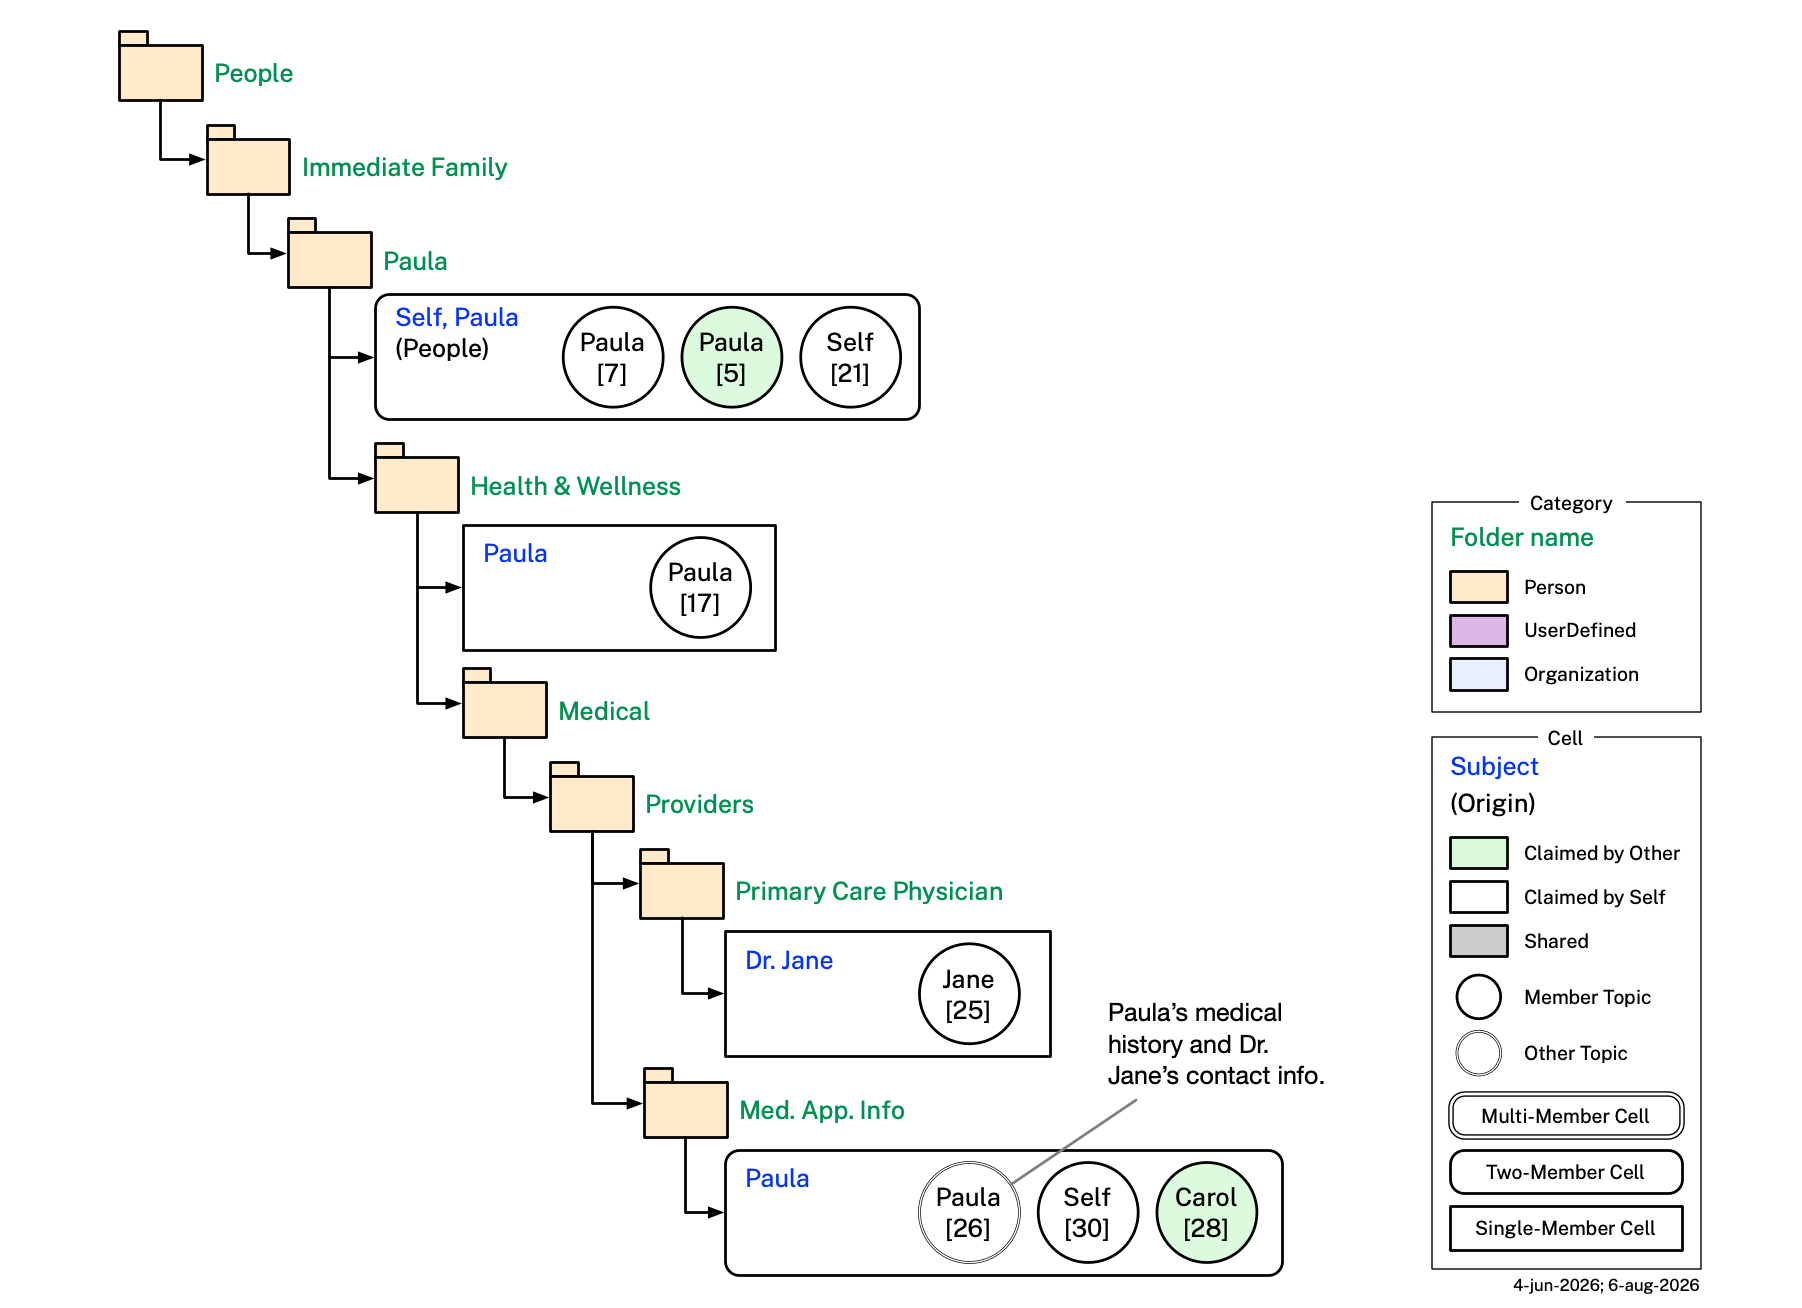
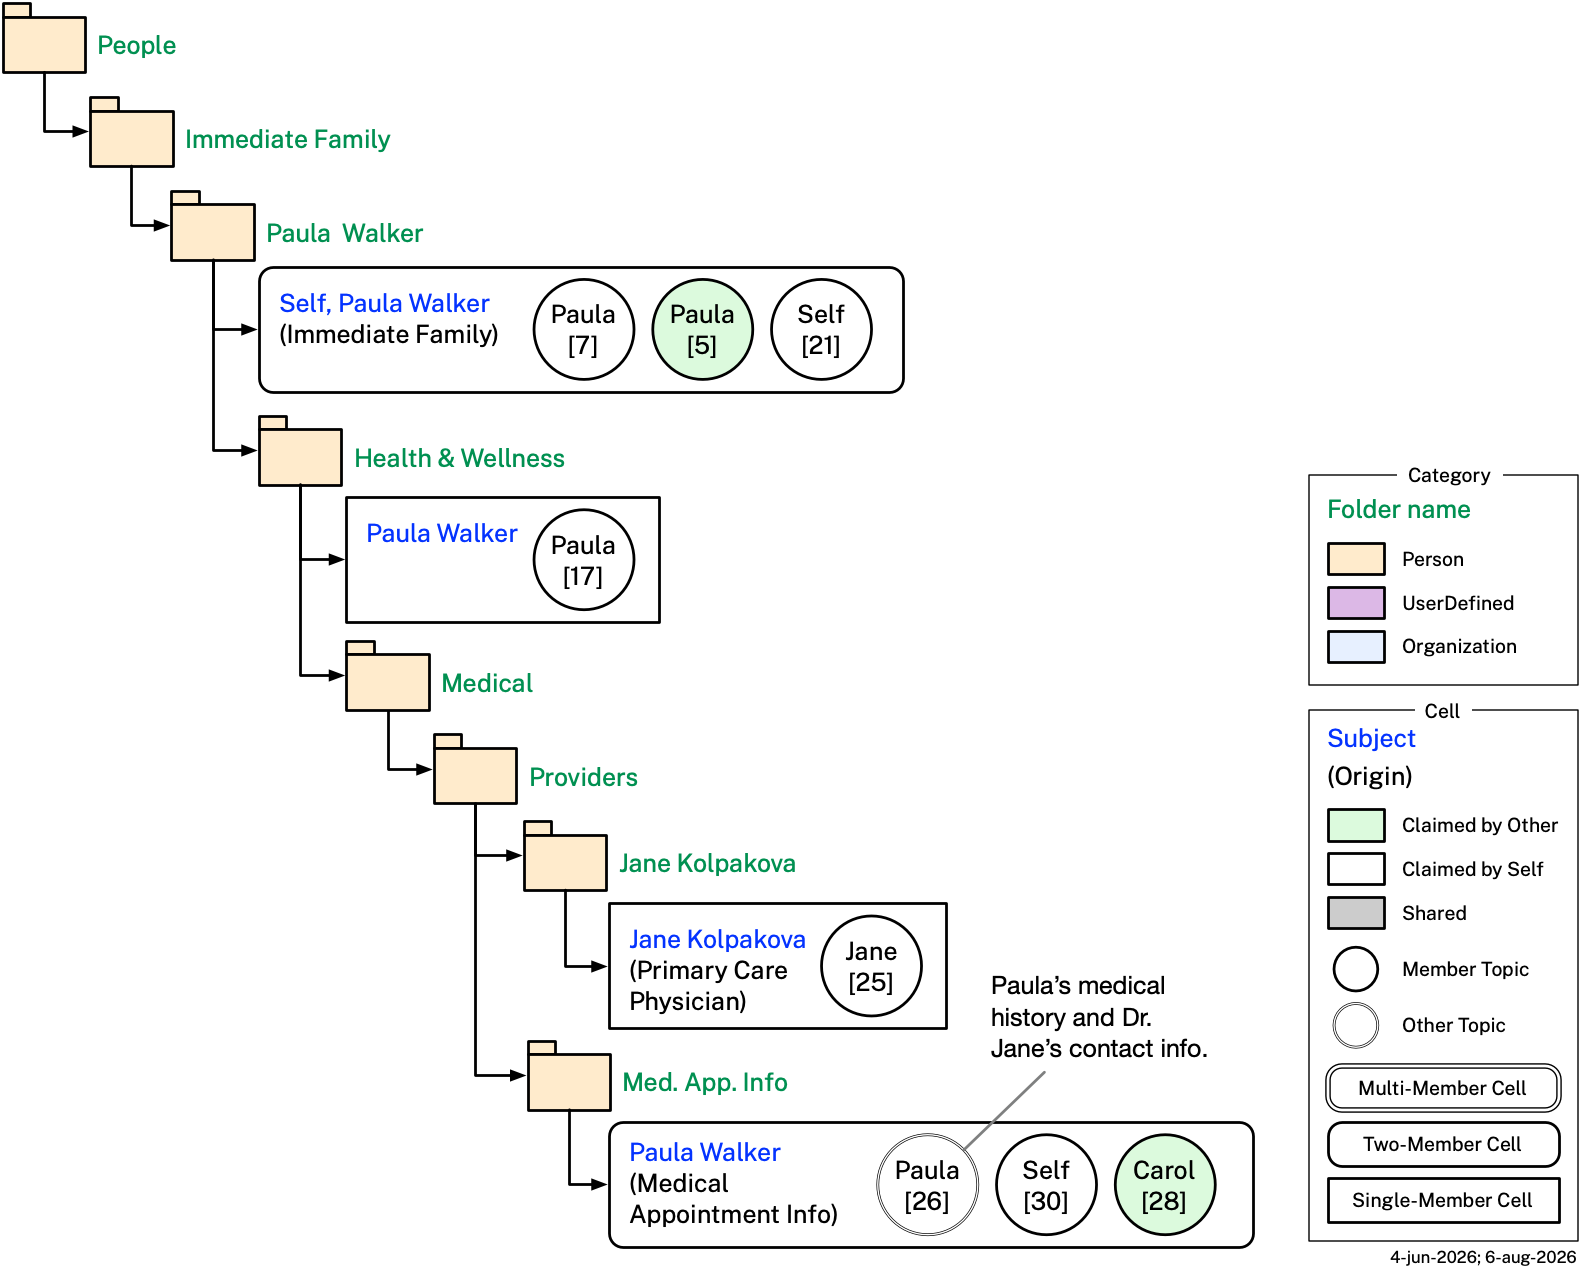
image files

Changed region(s): [[0.0, 0.0, 1.0, 1.0]]

diff --git a/CLAUDE.md b/CLAUDE.md
@@ -303,6 +303,8 @@ Note: this check's `^id:\s*(\S+)` regex is anchored at true line-start with no l
 
 - **10g — Blue "Subject" annotation matches `cell:subject`**: Per the Key legend's "Subject" entry, a cell box carries a blue "Subject" text annotation listing the name(s) of the resource(s) the cell's relationship is about, comma-separated when there are two. This text must list exactly the same value(s) — by name, not IRI — as the actual `mia.subject` value(s) of the cell-databook co-located in that box's own folder, no more and no fewer. This is a visual check (no script) — e.g. `finances.png`'s "Banking & Payments / Citibank" box's Subject annotation reads "Self, Citibank", matching `Citibank(banking-payments).databook.md`'s `mia.subject: [":Self", ":Citibank"]`.
 
+- **10h — Black parenthetical origin-label text matches `cell:origin`'s class label**: Immediately after the blue Subject text (e.g. `Self (Companies)`), a cell box may carry a black parenthetical giving its `cell:origin` class's `rdfs:label` (from `category.ttl`) in human-readable form. It follows the exact same compression rule as the Category/Cell DataBook Filename Convention's `<local>(<catType>)` filename form: shown only when that label differs from the box's own folder-name label, and omitted entirely when the two are identical. This text must match the co-located cell-databook's actual `mia.origin` class's `rdfs:label`, verbatim — no more and no fewer words, never invented or abbreviated further. This is a visual check (no script) — e.g. `companies.png`'s "Google" and "ATT" boxes both show `(Companies)`, matching their shared `mia.origin: "cat:Companies"` (label "Companies"); `gov-state.png`'s "Texas Vital Records" and "California DMV" boxes show `(Birth Certificate)` and `(Drivers License)`, matching `cat:BirthCertificate`'s and `cat:DriversLicense`'s labels; `misc.png`'s "Ownership" box shows no parenthetical at all, correctly compressed since `cat:Ownership`'s label already equals the folder name "Ownership".
+
 The 11 diagrams are: `example/images/people.png`, `example/images/people2.png`, `example/images/health.png`, `example/images/work.png`, `example/images/companies.png`, `example/images/finances.png`, `example/images/gov-state.png`, `example/images/gov-federal.png`, `example/images/gov-municipality.png`, `example/images/misc.png`, `example/images/affiliations.png`.
 
 **Check 11 — Physical folder structure IS the category tree in `example/Cells/`**: This check applies only to `example/Cells/` — the user's own instance tree — since there is no longer a separate canonical-instance file tree to mirror (`categories-person/`/`categories-org/` were removed in category.ttl 1.8.0). There is no longer a `mia.child`/`mia.cell` YAML list to cross-check the tree against either — category.ttl 1.31.0 deleted `cat:child`/`cat:cell` (and `cat:Folder` itself) outright, so this check has no independently-asserted list to "mirror" at all; it collapses to a pure filesystem sanity check with no YAML frontmatter parsing at all. A folder counts as a category-tree node ("marker dir") iff it directly contains exactly one `*.databook.md` file (the only DataBook type in a user's instance tree is now cell-databook, so no `-cell` marker is needed to identify one) — that file is simultaneously the folder's real (or placeholder) content and its tree-node marker (cell.ttl's folder ownership boundary rule, 3.16.0/3.19.0). A folder can never legally hold more than one cell-databook (cell.ttl 3.22.0): a `cell:Cell` is self-contained, and letting two cells share a folder would risk a single file in that folder becoming ambiguously part of both — this check flags any such folder as an error. Folder naming is not standardized — it may be the category's display label, a role-based label, or anything else — but a cell-databook's own filename is now always the folder's exact verbatim name (see the Category/Cell DataBook Filename Convention), so this check's per-folder marker test and its filename root are one and the same string. No bare, marker-less pass-through directories are permitted between two marker dirs. Run:
@@ -539,6 +541,36 @@ print('All cell:OneMember/TwoMember cells satisfy the subject/otherTopics-member
 ```
 
 If a violation is found, either relink the offending topic to the correct list (`memberTopics` for an active member's own topic, `otherTopics` for the single named subject's own topic when the cell has only one `cell:subject` value and enough other topics exist to fill `memberTopics` without it), or reconsider whether `cell:subject`'s value(s) or `cell:memberCount`'s value are correct for the relationship being modeled.
+
+**Check 19 — Cell-databook `title:` matches its own folder's OS name**: The Category/Cell DataBook Filename Convention already requires a cell-databook's *filename root* to be an exact copy of its folder's own name, but that convention is about the filename — not the separate `title:` YAML field, which several other checks (notably Check 10a's box-label match) treat as authoritative for what a cell "is called." Nothing previously verified that `title:` and the folder's actual OS name hadn't quietly drifted apart. The invariant: for every cell-databook under `example/Cells/`, `title:` must equal `os.path.basename` of the folder it directly lives in, verbatim (same case/spacing/punctuation rule as the filename convention — no kebab-casing, no paraphrasing). Run:
+
+```python
+import os, re, yaml
+
+def frontmatter(path):
+    text = open(path, encoding='utf-8').read()
+    m = re.match(r'^---\n(.*?)\n---', text, re.DOTALL)
+    return yaml.safe_load(m.group(1)) if m else None
+
+errors = 0
+for dirpath, _, filenames in os.walk('example/Cells'):
+    if 'under-development' in dirpath.split(os.sep):
+        continue
+    cells = [f for f in filenames if f.endswith('.databook.md')]
+    for fname in cells:
+        path = os.path.join(dirpath, fname)
+        fm = frontmatter(path)
+        if not fm:
+            continue
+        title = fm.get('title')
+        folder_name = os.path.basename(dirpath)
+        if title != folder_name:
+            print(f'MISMATCH  {path}  folder={folder_name!r}  title={title!r}')
+            errors += 1
+print('OK — title: matches its own folder name for every cell-databook.' if errors == 0 else f'{errors} mismatch(es) found.')
+```
+
+If a mismatch is found, don't silently pick a side — flag it (matching Check 12/13's own rule for ambiguous-authority discrepancies): a `title:` that adds an honorific, expands an abbreviation, or otherwise "reads nicer" than the raw folder name (e.g. `Dr. Jane Kolpakova` vs. folder `Jane Kolpakova`, or `AT&T` vs. folder `ATT`) may be a deliberate display-name choice or may be undetected drift — ask which, since the folder name is also what Check 9's `id:` derivation and Check 10a's diagram-box match both key off.
 
 ## Keeping Files in Sync
 

diff --git a/example/Cells/People/Immediate Family/Paula Walker/Health & Wellness/Medical/Providers/Jane Kolpakova/Jane Kolpakova(primary-care-physician).databook.md b/example/Cells/People/Immediate Family/Paula Walker/Health & Wellness/Medical/Providers/Jane Kolpakova/Jane Kolpakova(primary-care-physician).databook.md
@@ -1,11 +1,11 @@
 ---
 id: http://www.example.org/mia/categories/Jane-Kolpakova(primary-care-physician)
-title: "Dr. Jane Kolpakova"
+title: "Jane Kolpakova"
 type: cell-databook
-version: 1.1.0
+version: 1.2.0
 created: 2026-07-10
 description: >
-  Cell DataBook of category "Dr. Jane Kolpakova" (cell:origin: cat:PrimaryCarePhysician). Content may include topics/folder/note links, and may carry one or two required subject values.
+  Cell DataBook of category "Jane Kolpakova" (cell:origin: cat:PrimaryCarePhysician). Content may include topics/folder/note links, and may carry one or two required subject values.
 mia:
   origin: "cat:PrimaryCarePhysician"
   creator: ":Self"

diff --git a/example/Cells/Companies/ATT/ATT(companies).databook.md b/example/Cells/Companies/ATT/ATT(companies).databook.md
@@ -1,11 +1,11 @@
 ---
 id: http://www.example.org/mia/categories/ATT(companies)
-title: "AT&T"
+title: "ATT"
 type: cell-databook
-version: 1.1.0
+version: 1.2.0
 created: 2026-07-10
 description: >
-  Cell DataBook of category "AT&T" (cell:origin: cat:Companies). Content may include topics/folder/note links, and may carry one or two required subject values.
+  Cell DataBook of category "ATT" (cell:origin: cat:Companies). Content may include topics/folder/note links, and may carry one or two required subject values.
 mia:
   origin: "cat:Companies"
   creator: ":Self"
